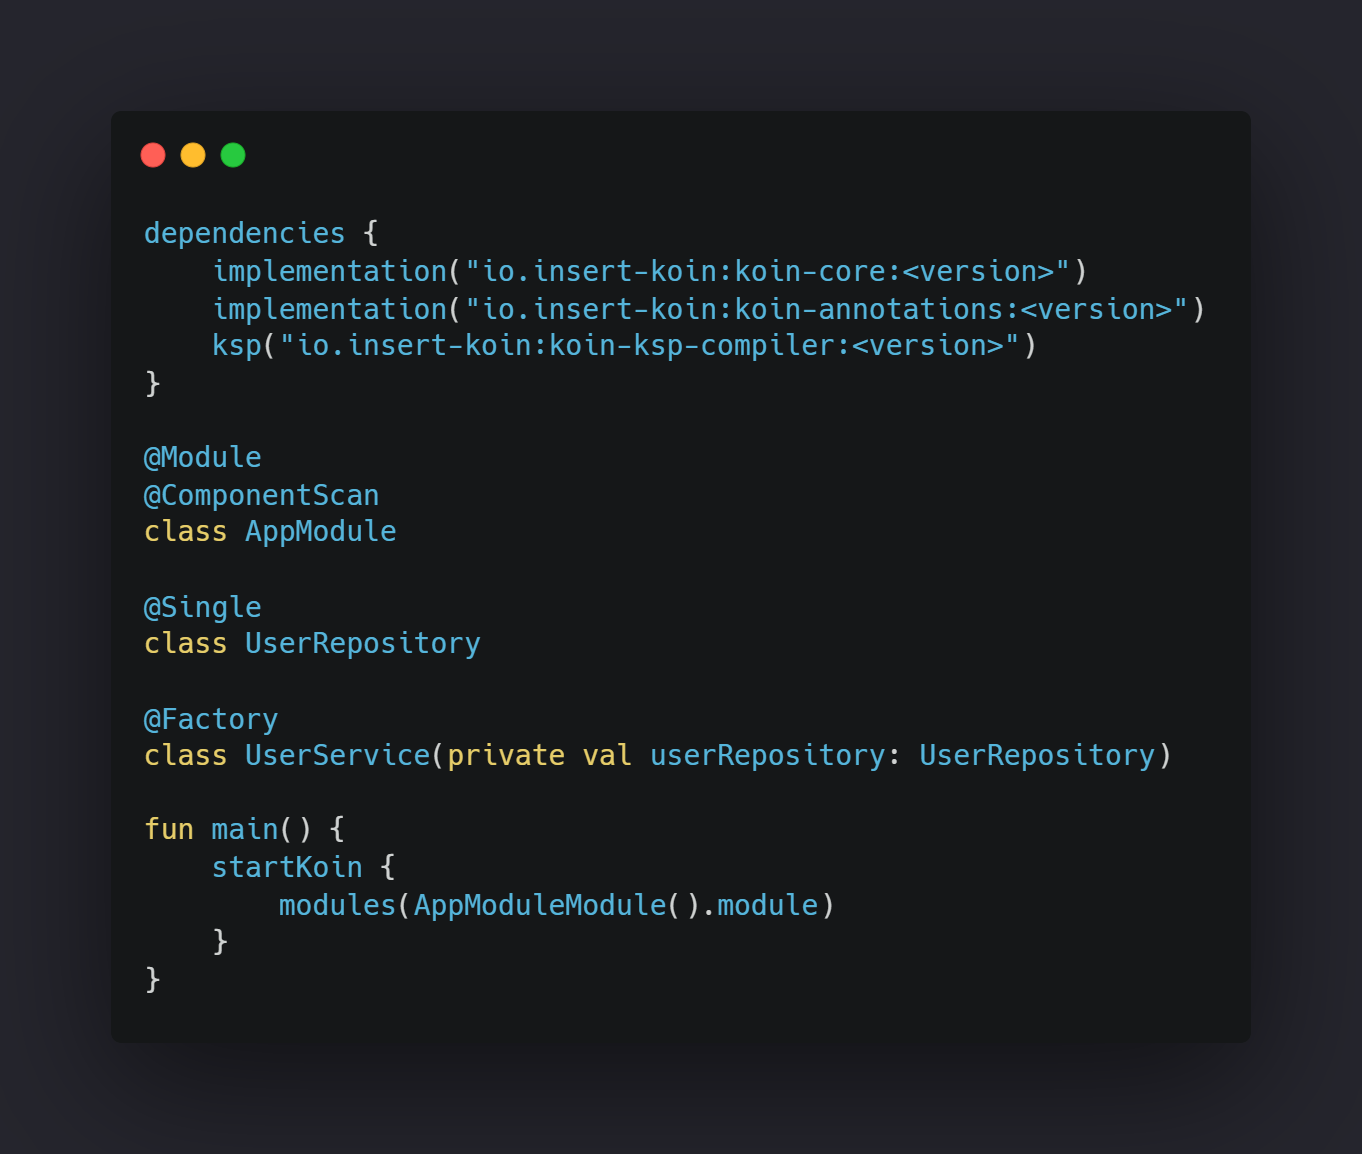
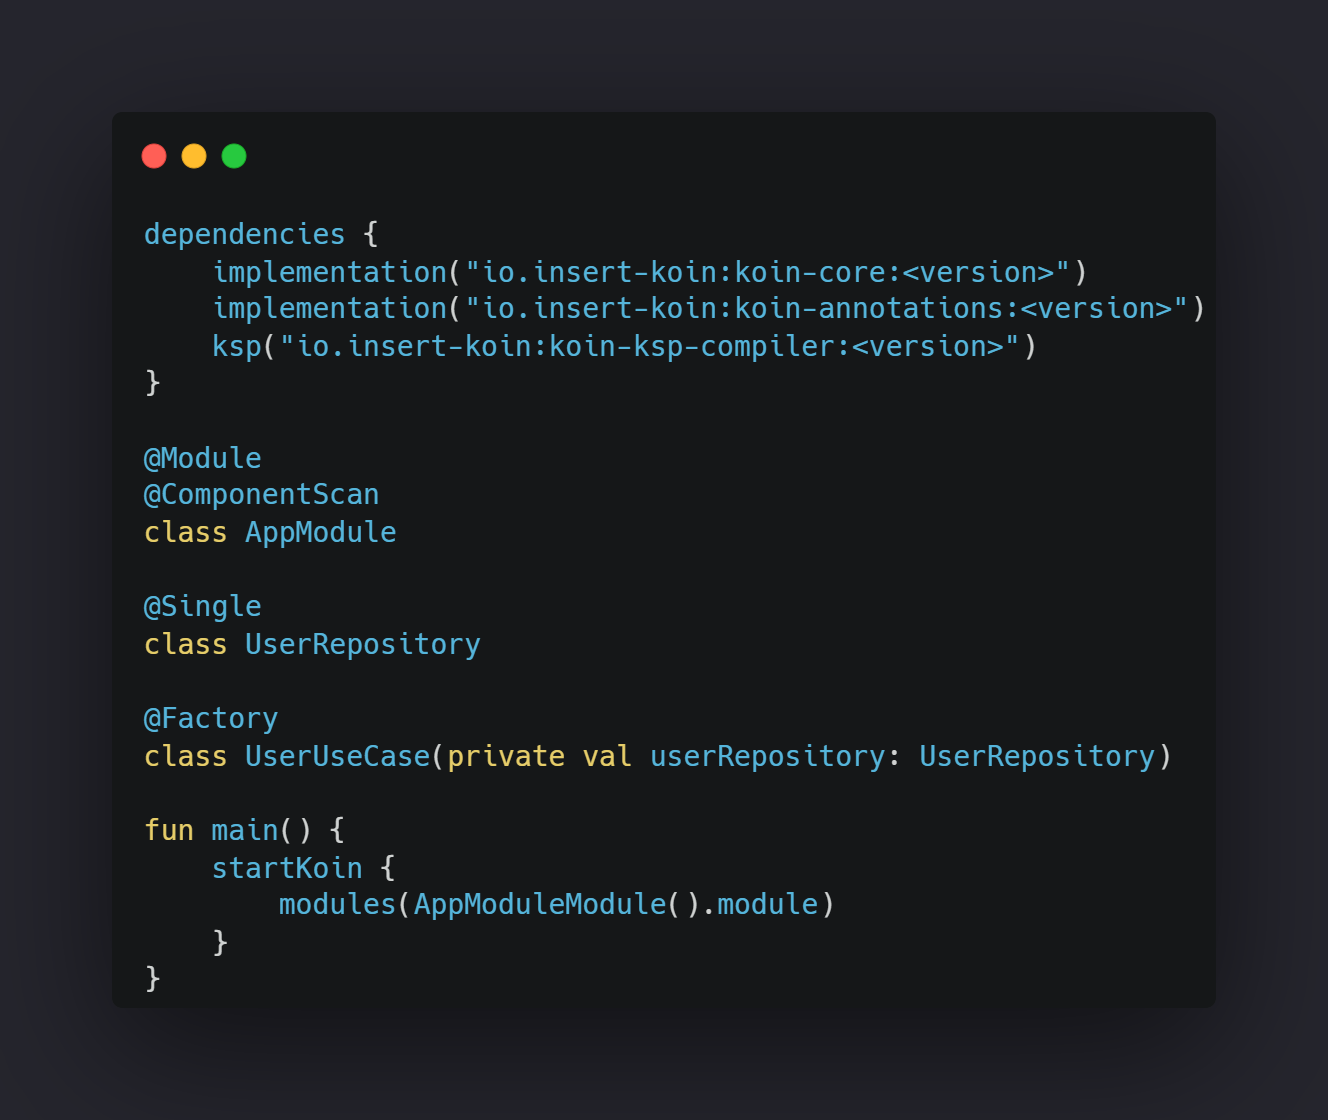
Change UserService example with UserUseCase

diff --git a/content/en/posts/kotlin-ksp.md b/content/en/posts/kotlin-ksp.md
@@ -89,7 +89,7 @@ class AppModule
 class UserRepository
 
 @Factory
-class UserService(private val userRepository: UserRepository)
+class UserUseCase(private val userRepository: UserRepository)
 ```
 
 ### Generated Module

diff --git a/content/es/posts/kotlin-ksp.md b/content/es/posts/kotlin-ksp.md
@@ -89,7 +89,7 @@ class AppModule
 class UserRepository
 
 @Factory
-class UserService(private val userRepository: UserRepository)
+class UserUseCase(private val userRepository: UserRepository)
 ```
 
 ### Módulo generado
